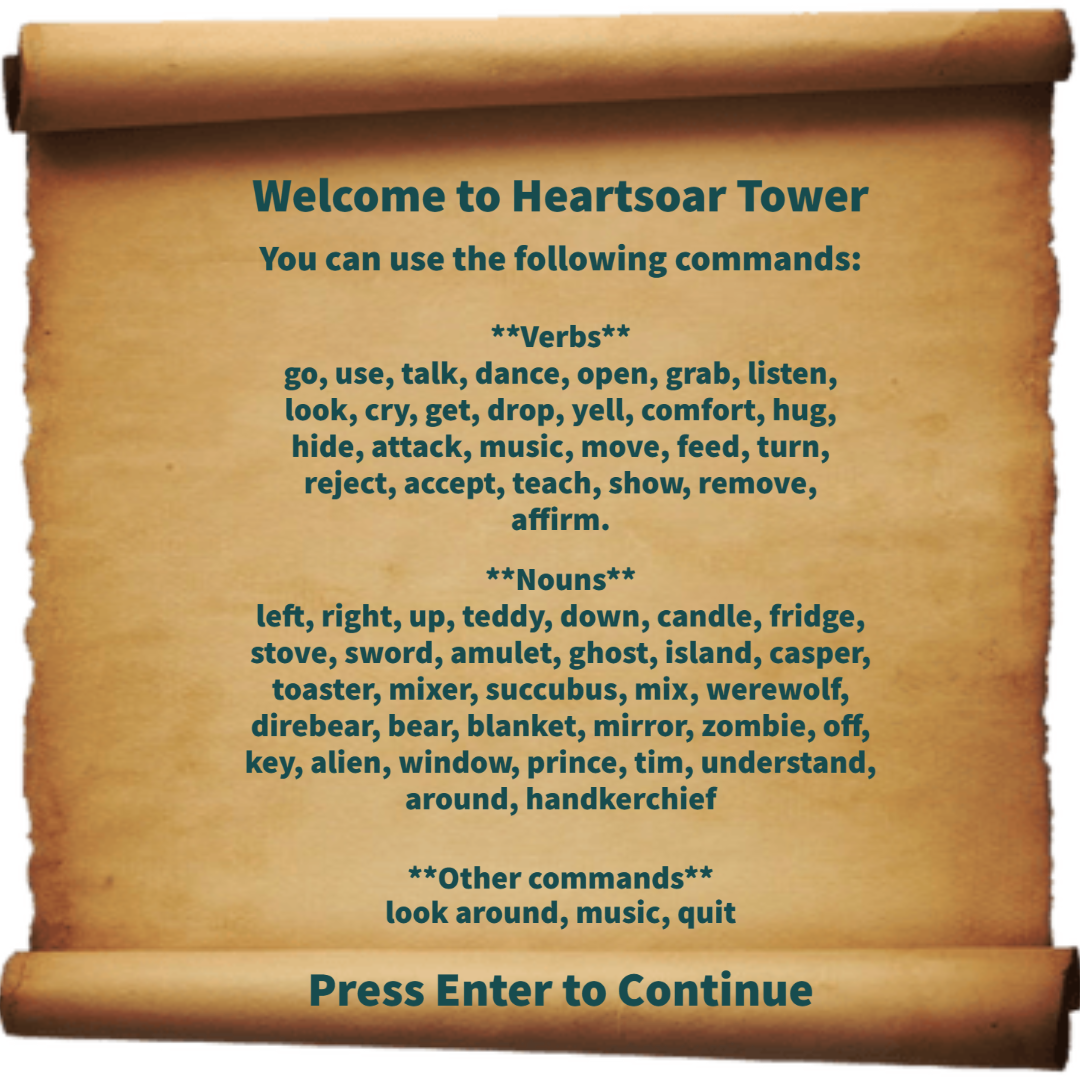
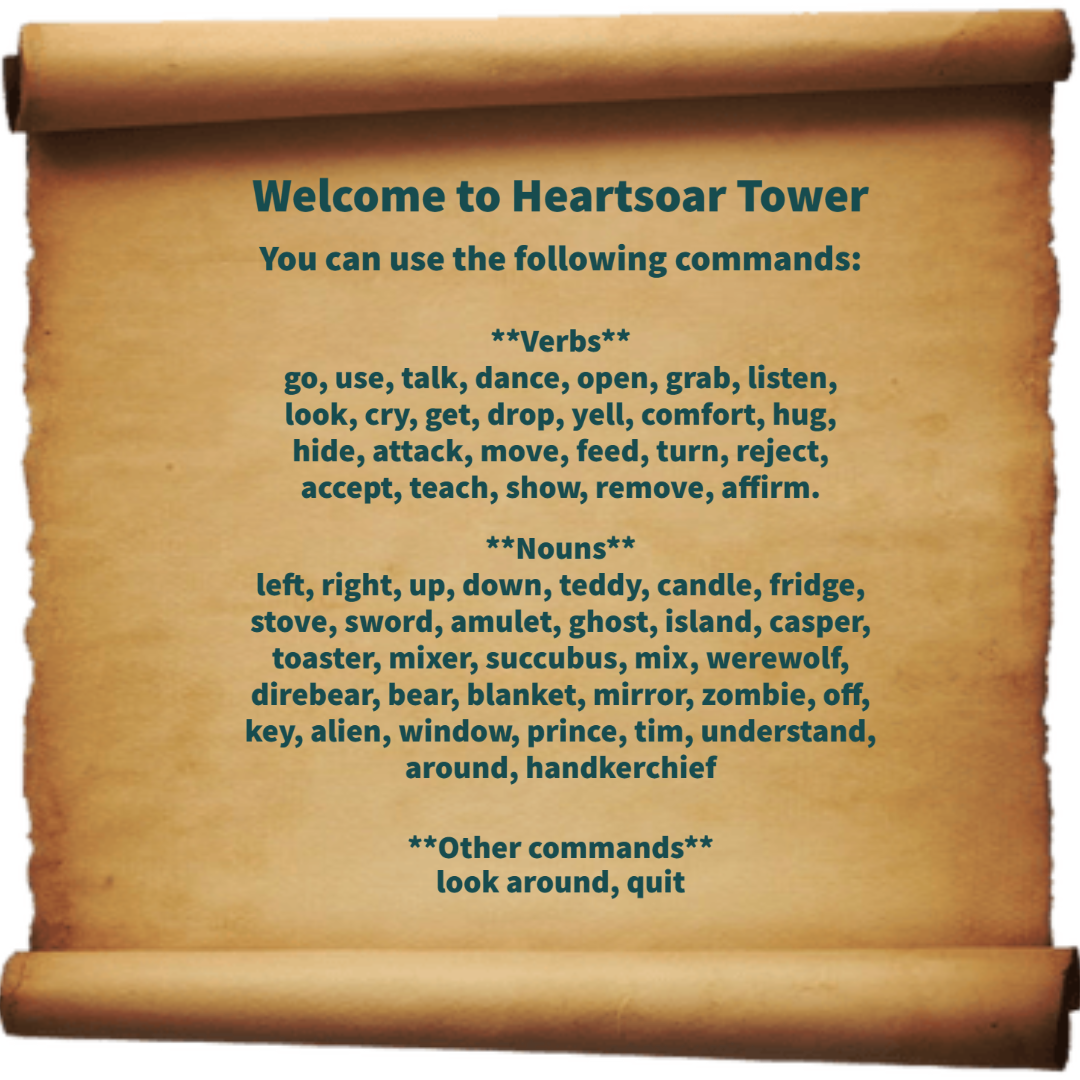
Added background Image to the Title Frame and the Help Scroll is correctly scaled, AB#802, AB#803

Changed region(s): [[0.2139, 0.3056, 0.825, 0.8556], [0.275, 0.8861, 0.7639, 0.9472]]

diff --git a/src/main/java/com/tlg/view/GuiBuild.java b/src/main/java/com/tlg/view/GuiBuild.java
@@ -7,6 +7,7 @@ import com.tlg.model.Item;
 import com.tlg.model.Player;
 import com.tlg.model.Room;
 
+import javax.imageio.ImageIO;
 import javax.swing.*;
 import javax.swing.border.Border;
 import javax.swing.border.EmptyBorder;
@@ -14,13 +15,11 @@ import javax.swing.text.AttributeSet;
 import javax.swing.text.BadLocationException;
 import javax.swing.text.PlainDocument;
 import java.awt.*;
-import java.awt.event.ActionListener;
+import java.awt.event.*;
 import java.io.*;
 import java.net.URL;
 import java.nio.charset.StandardCharsets;
 
-import java.awt.event.ActionEvent;
-import java.awt.event.KeyEvent;
 import java.util.Arrays;
 import java.util.List;
 
@@ -47,9 +46,9 @@ public class GuiBuild {
     DisplayArt displayArt;
 
 
-    private Font titleFont = new Font("Times New Roman", Font.PLAIN, 60);
+    private Font titleFont = new Font("Helvetica", Font.PLAIN, 60);
     private Font normalFont = new Font("Times New Roman", Font.PLAIN, 25);
-    private Font storyFont = new Font("Times New Roman", Font.PLAIN, 20);
+    private Font storyFont = new Font("Helvetica", Font.PLAIN, 30);
     private JButton musicButton, helpButton, leftButton, rightButton, upButton, downButton;
     private MusicPlayer musicPlayer = new MusicPlayer("Music/medievalrpg-music.wav");
     private GameInputListener gameInputListener;
@@ -57,7 +56,9 @@ public class GuiBuild {
 
         // Create and set up the window.
         frame = new JFrame("Heartsoar Tower");
-        frame.setSize(1650, 1080);
+        // Set the Frame to the Max Size of a User's Screen. So Image is reflected in accordance.
+        Dimension screenSize = Toolkit.getDefaultToolkit().getScreenSize();
+        frame.setSize(screenSize.width, screenSize.height);
         frame.setExtendedState(JFrame.MAXIMIZED_BOTH);
         frame.setDefaultCloseOperation(JFrame.EXIT_ON_CLOSE);
         frame.getContentPane().setBackground(Color.WHITE);
@@ -68,21 +69,20 @@ public class GuiBuild {
         con = frame.getContentPane();
         frame.setTitle("HEARTSOAR TOWER");
 
-        // Create a panel for the title name
-        titleNamePanel = new JPanel();
-        // DO NOT need to set Bounds on BorderLayout Manager
-        //titleNamePanel.setBounds(100, 100, 600, 150);
-        titleNamePanel.setBackground(Color.BLACK);
+        // Image of Castle
+        String imgResourcePath = "/Images/Castle.png";
+        //noinspection ConstantConditions
+        Image backgroundImage = ImageIO.read(getClass().getResource(imgResourcePath));
+        Image scaledImage = backgroundImage.getScaledInstance(frame.getWidth(), frame.getHeight(), Image.SCALE_DEFAULT);
 
-        // Set the layout manager of the titleNamePanel to center the components
-        //titleNamePanel.setLayout(new FlowLayout(FlowLayout.CENTER, 0, 0));
-        titleNamePanel.setLayout(new GridBagLayout());
-        //titleNamePanel.setLayout(new BorderLayout());
-
-        // Create the title name label
-        titleNameLabel = new JLabel("HEARTSORE TOWER");
+        JLabel titleNameLabel = new JLabel("<html><center>HEARTSORE TOWER</center></html>", new ImageIcon(scaledImage), JLabel.CENTER);
+        titleNameLabel.setVerticalTextPosition(JLabel.CENTER);
+        titleNameLabel.setHorizontalTextPosition(JLabel.CENTER);
         titleNameLabel.setForeground(Color.WHITE); // Text color
         titleNameLabel.setFont(titleFont);
+
+        // Create the title name label
+        titleNamePanel = new JPanel(new BorderLayout());
 
         titleNamePanel.getInputMap(JComponent.WHEN_IN_FOCUSED_WINDOW).put(
                 KeyStroke.getKeyStroke(KeyEvent.VK_ENTER, 0), "EnterPressed");
@@ -92,23 +92,17 @@ public class GuiBuild {
             }
         });
 
-//        // Create button panel
-//        musicButtonPanel = new JPanel();
-//        musicButtonPanel.setBounds(300, 400, 200, 100);
-//        musicButtonPanel.setBackground(Color.BLACK);
-//
-//        // Create the start button
-//        musicButton = new JButton("music");
-//        musicButton.setBackground(Color.YELLOW);
-//        musicButton.setForeground(Color.RED);
-//        musicButton.setFont(normalFont);
-//        musicButton.addActionListener(e -> musicSettings(musicPlayer));
+        // Add component resize listener to resize Image everytime Frame is resized.
+        frame.addComponentListener(new ComponentAdapter() {
+            @Override
+            public void componentResized(ComponentEvent e) {
+                Image scaledImage = backgroundImage.getScaledInstance(frame.getWidth(), frame.getHeight(), Image.SCALE_DEFAULT);
+                titleNameLabel.setIcon(new ImageIcon(scaledImage));
+            }
+        });
 
-        titleNamePanel.add(titleNameLabel);
-        //titleNamePanel.add(titleNameLabel, BorderLayout.CENTER); // Add the label to the panel
+        titleNamePanel.add(titleNameLabel, BorderLayout.CENTER); // Add the label to the panel
         con.add(titleNamePanel, BorderLayout.CENTER); // Add the title name panel to the content pane
-        //con.add(musicButtonPanel);
-        //musicButtonPanel.add(musicButton);
 
         this.gameInputListener = gameInputListener;
         this.displayArt = displayArt;
@@ -130,7 +124,6 @@ public class GuiBuild {
         graphicPanel = new JPanel();
         graphicPanel.setBounds(0,0,750,800);
         graphicPanel.setBackground(new Color(26,83,92));
-
 
         // Graphic JTextArea
         JTextArea graphicTextArea = new JTextArea();
@@ -264,10 +257,13 @@ public class GuiBuild {
         helpButton.setForeground(Color.RED);
         helpButton.setFont(normalFont);
         URL helpUrl = getClass().getClassLoader().getResource("Images/Help.png");
-        assert helpUrl != null;
-        ImageIcon helpImageIcon = new ImageIcon(helpUrl);
+        //noinspection ConstantConditions
+        ImageIcon helpIcon = new ImageIcon(helpUrl);
+        Image helpImage = helpIcon.getImage(); // transform it
+        Image helpImg = helpImage.getScaledInstance(800, 800,  java.awt.Image.SCALE_SMOOTH); // scale it smoothly
+        ImageIcon newHelpIcon = new ImageIcon(helpImg);  // assign to a new ImageIcon instance
         helpButton.addActionListener(e ->
-                JOptionPane.showMessageDialog(null, null, "Help", JOptionPane.PLAIN_MESSAGE, helpImageIcon)
+                JOptionPane.showMessageDialog(null, null, "Help Scroll", JOptionPane.PLAIN_MESSAGE, newHelpIcon)
         );
         // Add helpButton to the south of the new panel
         inventoryHelpPanel.add(helpButton, BorderLayout.SOUTH);
@@ -280,7 +276,7 @@ public class GuiBuild {
         upButton.setFont(normalFont);
 
         URL upDirectionURL = getClass().getClassLoader().getResource("Images/up icon.png");
-        assert upDirectionURL != null;
+        //noinspection ConstantConditions
         ImageIcon upDirectionIcon = new ImageIcon(upDirectionURL);
         Image upDirectionImage = upDirectionIcon.getImage(); // transform it
         Image upDirectionImg = upDirectionImage.getScaledInstance(60, 60,  java.awt.Image.SCALE_SMOOTH); // scale it smoothly
@@ -312,7 +308,7 @@ public class GuiBuild {
         downButton.setFont(normalFont);
 
         URL downDirectionURL = getClass().getClassLoader().getResource("Images/down icon.png");
-        assert downDirectionURL != null;
+        //noinspection ConstantConditions
         ImageIcon downDirectionIcon = new ImageIcon(downDirectionURL);
         Image downDirectionImage = downDirectionIcon.getImage(); // transform it
         Image downDirectionImg = downDirectionImage.getScaledInstance(60, 60,  java.awt.Image.SCALE_SMOOTH); // scale it smoothly
@@ -344,7 +340,7 @@ public class GuiBuild {
         rightButton.setFont(normalFont);
 
         URL rightDirectionURL = getClass().getClassLoader().getResource("Images/right icon.png");
-        assert rightDirectionURL != null;
+        //noinspection ConstantConditions
         ImageIcon rightDirectionIcon = new ImageIcon(rightDirectionURL);
         Image rightDirectionImage = rightDirectionIcon.getImage(); // transform it
         Image rightDirectionImg = rightDirectionImage.getScaledInstance(60, 60,  java.awt.Image.SCALE_SMOOTH); // scale it smoothly
@@ -376,7 +372,7 @@ public class GuiBuild {
         leftButton.setFont(normalFont);
 
         URL leftDirectionURL = getClass().getClassLoader().getResource("Images/left icon.png");
-        assert leftDirectionURL != null;
+        //noinspection ConstantConditions
         ImageIcon leftDirectionIcon = new ImageIcon(leftDirectionURL);
         Image leftDirectionImage = leftDirectionIcon.getImage(); // transform it
         Image leftDirectionImg = leftDirectionImage.getScaledInstance(60, 60,  java.awt.Image.SCALE_SMOOTH); // scale it smoothly
@@ -411,18 +407,18 @@ public class GuiBuild {
         // Music Panel Label
         JLabel music = new JLabel();
         // Speaker Image
-        URL speakerUrl = getClass().getClassLoader().getResource("Images/Speaker.png");
-        assert speakerUrl != null;
+        URL speakerUrl = getClass().getClassLoader().getResource("Images/speakeron.png");
+        //noinspection ConstantConditions
         ImageIcon speakerIcon = new ImageIcon(speakerUrl);
         Image speakerImage = speakerIcon.getImage(); // transform it
-        Image newSpeakerImg = speakerImage.getScaledInstance(25, 25,  java.awt.Image.SCALE_SMOOTH); // scale it smoothly
+        Image newSpeakerImg = speakerImage.getScaledInstance(50, 50,  java.awt.Image.SCALE_SMOOTH); // scale it smoothly
         ImageIcon newSpeakerIcon = new ImageIcon(newSpeakerImg);  // assign to a new ImageIcon instance
         // Mute Image
-        URL muteUrl = getClass().getClassLoader().getResource("Images/Speaker-Mute.png");
-        assert muteUrl != null;
+        URL muteUrl = getClass().getClassLoader().getResource("Images/speakeroff.png");
+        //noinspection ConstantConditions
         ImageIcon muteIcon = new ImageIcon(muteUrl);
         Image muteImage = muteIcon.getImage(); // transform it
-        Image newMuteImg = muteImage.getScaledInstance(25, 25,  java.awt.Image.SCALE_SMOOTH); // scale it smoothly
+        Image newMuteImg = muteImage.getScaledInstance(50, 50,  java.awt.Image.SCALE_SMOOTH); // scale it smoothly
         ImageIcon newMuteIcon = new ImageIcon(newMuteImg);  // assign to a new ImageIcon instance
 
         JButton speakerButton = new JButton(newSpeakerIcon);
@@ -482,7 +478,6 @@ public class GuiBuild {
         gameInputListener.onYesNoInputReceived(input);
     }
 
-
     class JTextFieldLimit extends PlainDocument {
         private int limit;
         JTextFieldLimit(int limit) {
@@ -505,21 +500,19 @@ public class GuiBuild {
 
         // TEXT PANEL
         instructionPanel = new JPanel();
-        instructionPanel.setBackground(Color.WHITE);
+        instructionPanel.setBackground(new Color(26,83,92));
         instructionPanel.setLayout(new GridBagLayout());
         instructionPanel.setSize(100,100);
-        //instructionPanel.setLayout(new BorderLayout());
 
         // TEXT AREA
-        introductionTextArea = new JTextArea(13,90);
-        introductionTextArea.setBackground(Color.WHITE);
-        introductionTextArea.setForeground(Color.BLACK);
+        introductionTextArea = new JTextArea(20,90);
+        introductionTextArea.setBackground(new Color(26,83,92));
+        introductionTextArea.setForeground(Color.WHITE);
         introductionTextArea.setFont(storyFont);
         introductionTextArea.setLineWrap(true);
         introductionTextArea.setWrapStyleWord(true);
         introductionTextArea.setEditable(false);
         instructionPanel.add(introductionTextArea);
-        //instructionPanel.add(introductionTextArea, BorderLayout.CENTER);
 
         int marginSize = 2;
         Insets margin = new Insets(marginSize, marginSize, marginSize, marginSize);
